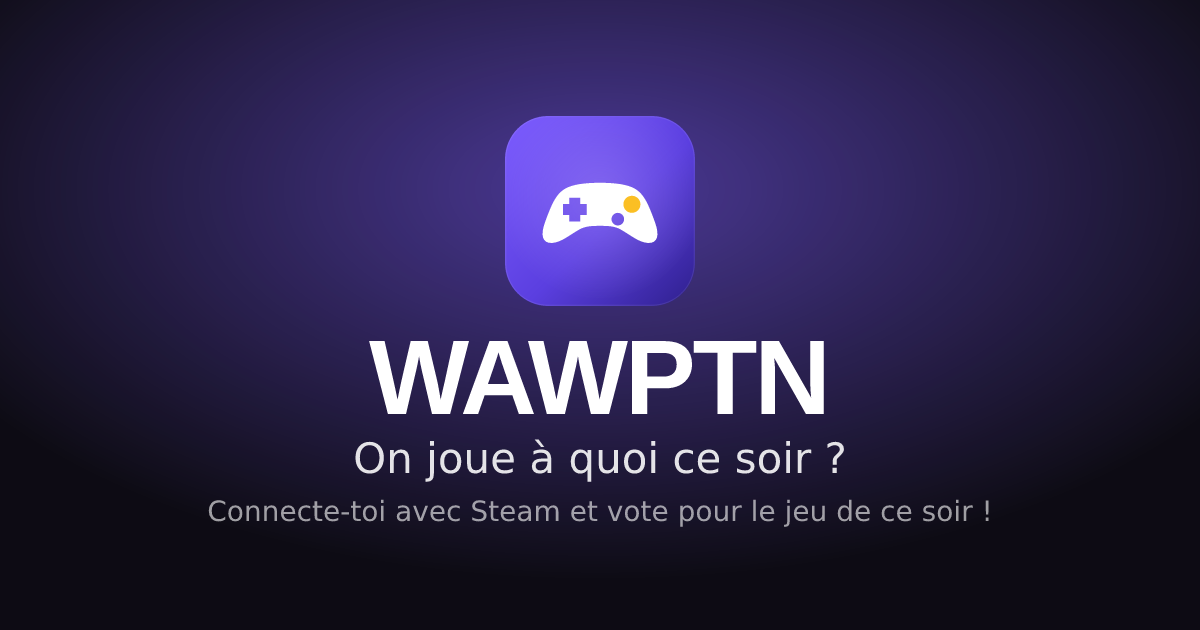
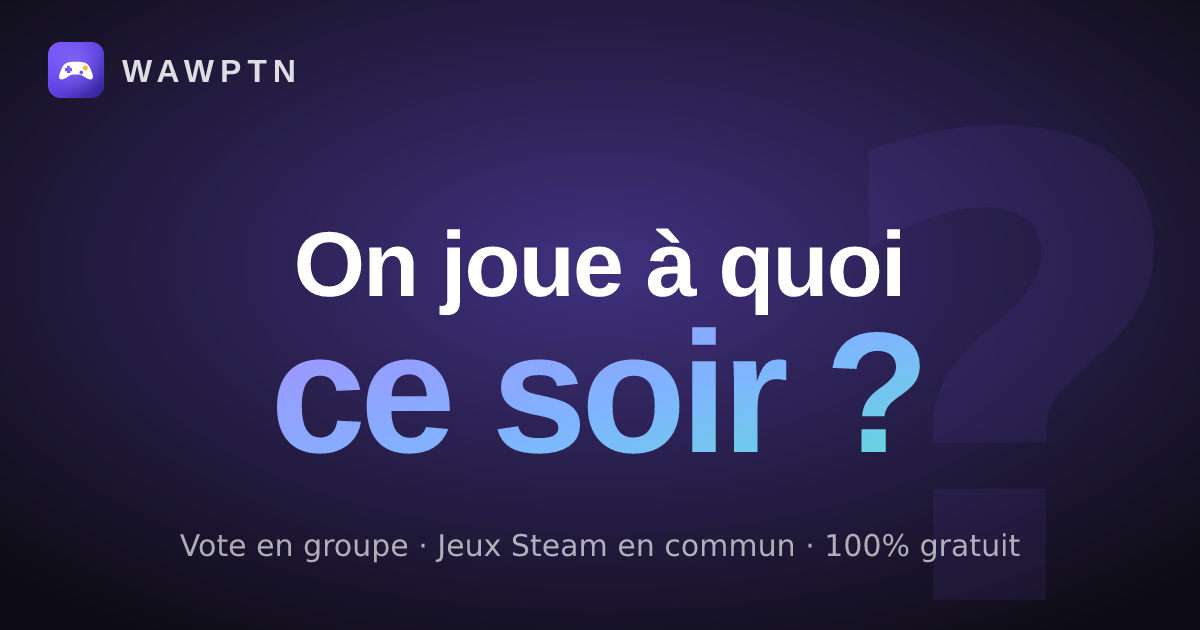
feat(landing): align marketing page with viral-product principles (#240)
- Add fixed header with Tarifs/FAQ anchor links so pricing is
  discoverable from anywhere on the page
- Add a product-preview section (live vote snapshot) right after the
  hero — show the product before explaining it
- Add a final CTA section so the page finishes strong instead of
  ending on the FAQ, and a GitHub link in the footer
- Redesign the OG share card thumbnail-style: hook headline dominant,
  brand mark relegated to a small corner lockup
- Fix landing document title to the full headline instead of the
  punchline fragment ("ce soir ? — WAWPTN")
- Drop the redundant hero brand pill now that the header carries the
  brand mark

diff --git a/packages/frontend/src/pages/LandingPage.tsx b/packages/frontend/src/pages/LandingPage.tsx
@@ -6,6 +6,7 @@ import {
   Crown,
   Zap,
   ChevronRight,
+  ThumbsUp,
 } from 'lucide-react'
 import { Link } from 'react-router-dom'
 import { useTranslation } from 'react-i18next'
@@ -77,6 +78,54 @@ const PREMIUM_FEATURES = [
   'premiumFeature6',
 ] as const
 
+function SteamCtaButton() {
+  const { t } = useTranslation()
+
+  return (
+    <Button variant="steam" size="lg" asChild>
+      <a
+        href="/api/auth/steam/login"
+        className="gap-3 text-base sm:text-lg px-10 py-7 group"
+      >
+        <svg
+          className="size-6 transition-transform duration-300 group-hover:scale-110"
+          viewBox="0 0 256 259"
+          fill="currentColor"
+        >
+          <path d="M127.779 0C60.21 0 5.2 52.063.553 117.735l68.39 28.273c5.801-3.964 12.8-6.288 20.358-6.288.672 0 1.34.023 2.004.06l30.469-44.148v-.62c0-26.392 21.476-47.868 47.868-47.868 26.393 0 47.869 21.476 47.869 47.869 0 26.392-21.476 47.868-47.869 47.868h-1.108l-43.44 31.026c0 .524.032 1.049.032 1.578 0 19.803-16.096 35.898-35.898 35.898-17.463 0-32.058-12.535-35.263-29.116L3.27 155.962C20.038 213.357 69.68 258.557 127.779 258.557c71.472 0 129.377-57.905 129.377-129.278C257.156 57.905 199.251 0 127.779 0" />
+        </svg>
+        {t('landing.cta')}
+        <ChevronRight className="size-5 transition-transform duration-300 group-hover:translate-x-1.5" />
+      </a>
+    </Button>
+  )
+}
+
+function LandingHeader() {
+  const { t } = useTranslation()
+
+  return (
+    <header className="fixed top-0 inset-x-0 z-40 border-b border-white/[0.04] bg-background/60 backdrop-blur-xl">
+      <div className="max-w-5xl mx-auto flex items-center justify-between px-4 sm:px-6 h-14">
+        <a href="#" className="flex items-center gap-2.5">
+          <WawptnLogo size={18} variant="color" />
+          <span className="font-heading text-sm font-bold tracking-[0.25em] uppercase text-foreground/80">
+            WAWPTN
+          </span>
+        </a>
+        <nav className="flex items-center gap-5 sm:gap-7 text-sm text-muted-foreground">
+          <a href="#pricing" className="hover:text-foreground transition-colors">
+            {t('landing.navPricing')}
+          </a>
+          <a href="#faq" className="hover:text-foreground transition-colors">
+            {t('landing.navFaq')}
+          </a>
+        </nav>
+      </div>
+    </header>
+  )
+}
+
 function HeroSection() {
   const { t } = useTranslation()
 
@@ -128,17 +177,9 @@ function HeroSection() {
         animate="visible"
         variants={stagger}
       >
-        {/* Brand pill */}
-        <m.div variants={fadeUp} className="mb-10 sm:mb-14">
-          <div className="inline-flex items-center gap-3 px-6 py-2.5 rounded-full border border-white/[0.06] bg-white/[0.02] backdrop-blur-2xl shadow-[0_0_30px_oklch(0.55_0.27_270_/_0.04)]">
-            <WawptnLogo size={16} variant="color" />
-            <span className="text-[11px] font-semibold tracking-[0.35em] uppercase text-white/30">
-              WAWPTN
-            </span>
-          </div>
-        </m.div>
-
-        {/* Asymmetric headline: small lead-in + massive punchline */}
+        {/* Asymmetric headline: small lead-in + massive punchline.
+            The brand mark lives in the fixed LandingHeader — the hero
+            spends its attention budget on the hook, not the logo. */}
         <m.h1
           variants={fadeUp}
           className="font-heading font-extrabold tracking-[-0.05em]"
@@ -171,22 +212,7 @@ function HeroSection() {
           variants={fadeUp}
           className="flex flex-col items-center gap-5"
         >
-          <Button variant="steam" size="lg" asChild>
-            <a
-              href="/api/auth/steam/login"
-              className="gap-3 text-base sm:text-lg px-10 py-7 group"
-            >
-              <svg
-                className="size-6 transition-transform duration-300 group-hover:scale-110"
-                viewBox="0 0 256 259"
-                fill="currentColor"
-              >
-                <path d="M127.779 0C60.21 0 5.2 52.063.553 117.735l68.39 28.273c5.801-3.964 12.8-6.288 20.358-6.288.672 0 1.34.023 2.004.06l30.469-44.148v-.62c0-26.392 21.476-47.868 47.868-47.868 26.393 0 47.869 21.476 47.869 47.869 0 26.392-21.476 47.868-47.869 47.868h-1.108l-43.44 31.026c0 .524.032 1.049.032 1.578 0 19.803-16.096 35.898-35.898 35.898-17.463 0-32.058-12.535-35.263-29.116L3.27 155.962C20.038 213.357 69.68 258.557 127.779 258.557c71.472 0 129.377-57.905 129.377-129.278C257.156 57.905 199.251 0 127.779 0" />
-              </svg>
-              {t('landing.cta')}
-              <ChevronRight className="size-5 transition-transform duration-300 group-hover:translate-x-1.5" />
-            </a>
-          </Button>
+          <SteamCtaButton />
           <p className="text-xs text-muted-foreground">
             {t('landing.ctaSubtext')}
           </p>
@@ -217,6 +243,88 @@ function HeroSection() {
           />
         </m.div>
       </m.div>
+    </section>
+  )
+}
+
+// Static snapshot of a live vote — real co-op staples, plausible counts.
+// Shows the product (principle: show, don't tell) before the page explains it.
+const PREVIEW_GAMES = [
+  { name: 'Deep Rock Galactic', votes: 4, share: 100, leader: true },
+  { name: 'Lethal Company', votes: 2, share: 50, leader: false },
+  { name: 'Helldivers 2', votes: 1, share: 25, leader: false },
+] as const
+
+function ProductPreviewSection() {
+  const { t } = useTranslation()
+
+  return (
+    <section className="relative px-4 pt-10 pb-28 sm:pb-36">
+      <div className="max-w-xl mx-auto">
+        <m.div
+          initial={{ opacity: 0, y: 32 }}
+          whileInView={{ opacity: 1, y: 0 }}
+          viewport={{ once: true, margin: '-80px' }}
+          transition={{ duration: 0.7, ease: [0.22, 1, 0.36, 1] }}
+        >
+          <div className="landing-glass-card rounded-2xl p-6 sm:p-8" aria-hidden="true">
+            <div className="flex items-center justify-between gap-4 mb-6">
+              <div className="flex items-center gap-2.5 min-w-0">
+                <span className="relative flex size-2 shrink-0">
+                  <span className="absolute inline-flex h-full w-full rounded-full bg-neon opacity-60 animate-ping" />
+                  <span className="relative inline-flex size-2 rounded-full bg-neon" />
+                </span>
+                <span className="text-sm font-semibold truncate">
+                  {t('landing.previewLive')}
+                </span>
+                <span className="text-sm text-muted-foreground/60 truncate hidden sm:inline">
+                  · {t('landing.previewGroup')}
+                </span>
+              </div>
+              <span className="text-xs text-muted-foreground whitespace-nowrap">
+                {t('landing.previewProgress')}
+              </span>
+            </div>
+
+            <ul className="space-y-5">
+              {PREVIEW_GAMES.map((game, i) => (
+                <li key={game.name}>
+                  <div className="flex items-center justify-between gap-3 text-sm mb-2">
+                    <span className={game.leader ? 'font-semibold' : 'text-muted-foreground'}>
+                      {game.name}
+                    </span>
+                    <span
+                      className={`inline-flex items-center gap-1.5 tabular-nums ${
+                        game.leader ? 'text-primary font-semibold' : 'text-muted-foreground/60'
+                      }`}
+                    >
+                      <ThumbsUp className="size-3.5" />
+                      {game.votes}
+                    </span>
+                  </div>
+                  <div className="h-2 rounded-full bg-white/[0.05] overflow-hidden">
+                    <m.div
+                      className={`h-full rounded-full ${game.leader ? 'bg-primary' : 'bg-white/15'}`}
+                      initial={{ width: 0 }}
+                      whileInView={{ width: `${game.share}%` }}
+                      viewport={{ once: true, margin: '-80px' }}
+                      transition={{
+                        duration: 0.9,
+                        delay: 0.3 + i * 0.15,
+                        ease: [0.22, 1, 0.36, 1],
+                      }}
+                    />
+                  </div>
+                </li>
+              ))}
+            </ul>
+          </div>
+
+          <p className="text-center text-sm text-muted-foreground/70 mt-6">
+            {t('landing.previewCaption')}
+          </p>
+        </m.div>
+      </div>
     </section>
   )
 }
@@ -302,7 +410,7 @@ function PricingSection() {
   const { t } = useTranslation()
 
   return (
-    <section className="px-4 py-28 sm:py-36" id="pricing">
+    <section className="px-4 py-28 sm:py-36 scroll-mt-14" id="pricing">
       {/* Section divider */}
       <div className="absolute left-0 right-0 h-px bg-gradient-to-r from-transparent via-white/[0.04] to-transparent" />
 
@@ -430,7 +538,7 @@ function FaqSection() {
   })
 
   return (
-    <section className="px-4 py-24 sm:py-28" id="faq" aria-labelledby="faq-title">
+    <section className="px-4 py-24 sm:py-28 scroll-mt-14" id="faq" aria-labelledby="faq-title">
       <div className="absolute inset-x-0 h-px bg-gradient-to-r from-transparent via-white/[0.05] to-transparent" />
       <div className="max-w-3xl mx-auto">
         <m.div
@@ -479,6 +587,35 @@ function FaqSection() {
   )
 }
 
+function FinalCtaSection() {
+  const { t } = useTranslation()
+
+  return (
+    <section className="relative px-4 py-28 sm:py-36 text-center overflow-hidden">
+      <div className="absolute top-0 inset-x-0 h-px bg-gradient-to-r from-transparent via-white/[0.05] to-transparent" />
+      <div className="landing-blur-orb absolute top-1/2 left-1/2 -translate-x-1/2 -translate-y-1/2 w-[400px] sm:w-[600px] h-[300px] rounded-full bg-primary/15 blur-[140px] pointer-events-none" />
+
+      <m.div
+        className="relative max-w-2xl mx-auto"
+        initial={{ opacity: 0, y: 24 }}
+        whileInView={{ opacity: 1, y: 0 }}
+        viewport={{ once: true, margin: '-100px' }}
+        transition={{ duration: 0.7 }}
+      >
+        <h2 className="font-heading text-4xl sm:text-5xl lg:text-6xl font-extrabold tracking-[-0.04em] mb-10">
+          {t('landing.finalCtaTitle')}
+        </h2>
+        <div className="flex flex-col items-center gap-5">
+          <SteamCtaButton />
+          <p className="text-xs text-muted-foreground">
+            {t('landing.ctaSubtext')}
+          </p>
+        </div>
+      </m.div>
+    </section>
+  )
+}
+
 function LandingFooter() {
   const { t } = useTranslation()
 
@@ -492,6 +629,14 @@ function LandingFooter() {
           </span>
         </div>
         <div className="flex flex-col sm:flex-row items-center gap-x-4 gap-y-2 sm:text-right">
+          <a
+            href="https://github.com/wifsimster/wawptn"
+            target="_blank"
+            rel="noopener noreferrer"
+            className="hover:text-foreground transition-colors"
+          >
+            GitHub
+          </a>
           <Link to="/contact" className="hover:text-foreground transition-colors">
             {t('contact.title')}
           </Link>
@@ -504,15 +649,18 @@ function LandingFooter() {
 
 export function LandingPage() {
   const { t } = useTranslation()
-  useDocumentTitle(t('landing.headlineLine2'))
+  useDocumentTitle(t('landing.headline'))
 
   return (
     <div className="min-h-dvh flex flex-col overflow-x-hidden">
+      <LandingHeader />
       <main id="main-content">
         <HeroSection />
+        <ProductPreviewSection />
         <HowItWorksSection />
         <PricingSection />
         <FaqSection />
+        <FinalCtaSection />
       </main>
       <LandingFooter />
     </div>
